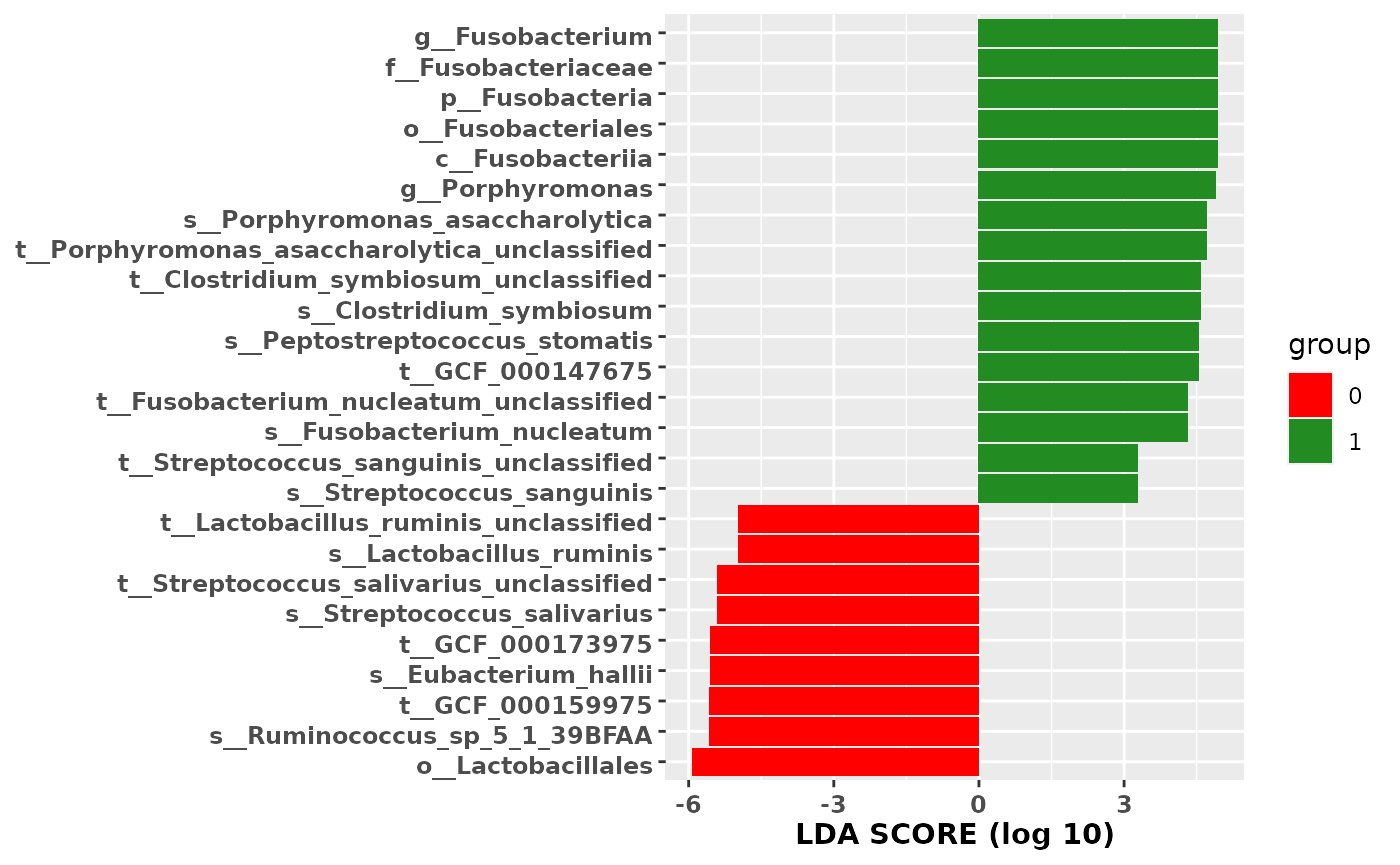
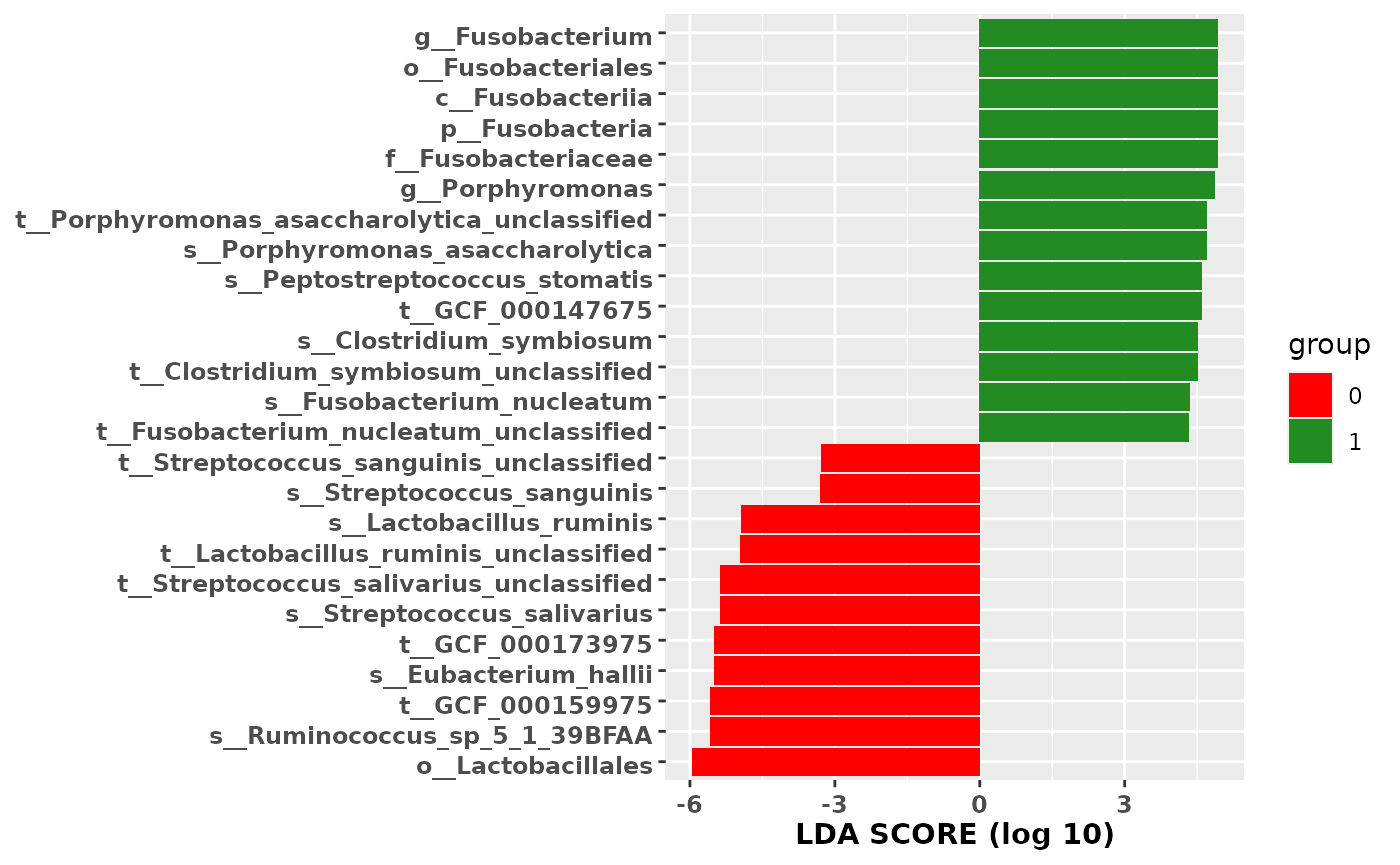
Deploying to gh-pages from  @ 87f49b9edf690383dff130e50912dddf48a71fe8 🚀

diff --git a/articles/lefser.html b/articles/lefser.html
@@ -128,58 +128,27 @@
 ##   senior      20  46</code></pre>
 <p>We can now use the <code>lefser</code> function. It provides results as a <code>data.frame</code> with the names of selected microorganisms and their effect size.</p>
 <div class="sourceCode" id="cb9"><pre class="downlit">
-<span class="va">res</span> <span class="op">&lt;-</span> <span class="fu"><a href="../reference/lefser.html">lefser</a></span><span class="op">(</span><span class="va">zeller14</span>, groupCol <span class="op">=</span> <span class="st">"study_condition"</span>, blockCol <span class="op">=</span> <span class="st">"age_category"</span><span class="op">)</span></pre></div>
-<pre><code>## Length of block: 157</code></pre>
-<pre><code>## Warning in .local(.Object, ...): The conditional covariance matrix has zero
-## diagonal elements
-
-## Warning in .local(.Object, ...): The conditional covariance matrix has zero
-## diagonal elements
-
-## Warning in .local(.Object, ...): The conditional covariance matrix has zero
-## diagonal elements
-
-## Warning in .local(.Object, ...): The conditional covariance matrix has zero
-## diagonal elements
-
-## Warning in .local(.Object, ...): The conditional covariance matrix has zero
-## diagonal elements
-
-## Warning in .local(.Object, ...): The conditional covariance matrix has zero
-## diagonal elements
-
-## Warning in .local(.Object, ...): The conditional covariance matrix has zero
-## diagonal elements
-
-## Warning in .local(.Object, ...): The conditional covariance matrix has zero
-## diagonal elements
-
-## Warning in .local(.Object, ...): The conditional covariance matrix has zero
-## diagonal elements
-
-## Warning in .local(.Object, ...): The conditional covariance matrix has zero
-## diagonal elements</code></pre>
-<div class="sourceCode" id="cb12"><pre class="downlit">
+<span class="va">res</span> <span class="op">&lt;-</span> <span class="fu"><a href="../reference/lefser.html">lefser</a></span><span class="op">(</span><span class="va">zeller14</span>, groupCol <span class="op">=</span> <span class="st">"study_condition"</span>, blockCol <span class="op">=</span> <span class="st">"age_category"</span><span class="op">)</span>
 <span class="fu"><a href="https://rdrr.io/r/utils/head.html">head</a></span><span class="op">(</span><span class="va">res</span><span class="op">)</span></pre></div>
 <pre><code>##                           Names    scores
-## 1            o__Lactobacillales -5.930165
-## 2 s__Ruminococcus_sp_5_1_39BFAA -5.559759
-## 3              t__GCF_000159975 -5.559759
-## 4         s__Eubacterium_hallii -5.547586
-## 5              t__GCF_000173975 -5.547586
-## 6   s__Streptococcus_salivarius -5.411354</code></pre>
+## 1            o__Lactobacillales -5.956588
+## 2 s__Ruminococcus_sp_5_1_39BFAA -5.583694
+## 3              t__GCF_000159975 -5.583694
+## 4         s__Eubacterium_hallii -5.499351
+## 5              t__GCF_000173975 -5.499351
+## 6   s__Streptococcus_salivarius -5.366510</code></pre>
 </div>
 <div id="visualizing-results-with-lefserplot" class="section level1">
 <h1 class="hasAnchor">
 <a href="#visualizing-results-with-lefserplot" class="anchor"></a>Visualizing results with <code>lefserPlot</code>
 </h1>
-<div class="sourceCode" id="cb14"><pre class="downlit">
+<div class="sourceCode" id="cb11"><pre class="downlit">
 <span class="fu"><a href="../reference/lefserPlot.html">lefserPlot</a></span><span class="op">(</span><span class="va">res</span><span class="op">)</span></pre></div>
 <p><img src="lefser_files/figure-html/unnamed-chunk-7-1.png" width="700" style="display: block; margin: auto;"></p>
 <div id="sessioninfo" class="section level2">
 <h2 class="hasAnchor">
 <a href="#sessioninfo" class="anchor"></a>sessionInfo</h2>
-<details><div class="sourceCode" id="cb15"><pre class="downlit">
+<details><div class="sourceCode" id="cb12"><pre class="downlit">
 <span class="fu"><a href="https://rdrr.io/r/utils/sessionInfo.html">sessionInfo</a></span><span class="op">(</span><span class="op">)</span></pre></div>
 <pre><code>## R version 4.0.3 Patched (2020-10-13 r79342)
 ## Platform: x86_64-pc-linux-gnu (64-bit)

diff --git a/reference/lefser.html b/reference/lefser.html
@@ -200,7 +200,7 @@ names of microorganisms and their LDA scores.</p>
     <span class='co'># assign '0' class to 'conrol' and '1' to 'CRC' (i.e., colorectal cancer)</span>
     <span class='va'>zeller14</span><span class='op'>$</span><span class='va'>GROUP</span> <span class='op'>&lt;-</span> <span class='fu'><a href='https://rdrr.io/r/base/ifelse.html'>ifelse</a></span><span class='op'>(</span><span class='va'>zeller14</span><span class='op'>$</span><span class='va'>study_condition</span> <span class='op'>==</span> <span class='st'>"control"</span>, <span class='fl'>0</span>, <span class='fl'>1</span><span class='op'>)</span>
     <span class='va'>results</span> <span class='op'>&lt;-</span> <span class='fu'>lefser</span><span class='op'>(</span><span class='va'>zeller14</span><span class='op'>)</span>
-</div><div class='output co'>#&gt; <span class='message'>Length of block: 0</span></div><div class='input'>    <span class='fu'><a href='https://rdrr.io/r/utils/head.html'>head</a></span><span class='op'>(</span><span class='va'>results</span><span class='op'>)</span>
+    <span class='fu'><a href='https://rdrr.io/r/utils/head.html'>head</a></span><span class='op'>(</span><span class='va'>results</span><span class='op'>)</span>
 </div><div class='output co'>#&gt;                  Names    scores
 #&gt; 1        p__Firmicutes -6.536708
 #&gt; 2        c__Clostridia -6.458054
@@ -217,7 +217,7 @@ names of microorganisms and their LDA scores.</p>
     <span class='co'># assign '0' class to 'adult' and '1' to 'senior'</span>
     <span class='va'>zeller14</span><span class='op'>$</span><span class='va'>BLOCK</span> <span class='op'>&lt;-</span> <span class='fu'><a href='https://rdrr.io/r/base/ifelse.html'>ifelse</a></span><span class='op'>(</span><span class='va'>zeller14</span><span class='op'>$</span><span class='va'>age_category</span> <span class='op'>==</span> <span class='st'>"adult"</span>, <span class='fl'>0</span>, <span class='fl'>1</span><span class='op'>)</span>
     <span class='va'>results</span> <span class='op'>&lt;-</span> <span class='fu'>lefser</span><span class='op'>(</span><span class='va'>zeller14</span><span class='op'>)</span>
-</div><div class='output co'>#&gt; <span class='message'>Length of block: 157</span></div><div class='output co'>#&gt; <span class='warning'>Warning: The conditional covariance matrix has zero diagonal elements</span></div><div class='output co'>#&gt; <span class='warning'>Warning: The conditional covariance matrix has zero diagonal elements</span></div><div class='output co'>#&gt; <span class='warning'>Warning: The conditional covariance matrix has zero diagonal elements</span></div><div class='output co'>#&gt; <span class='warning'>Warning: The conditional covariance matrix has zero diagonal elements</span></div><div class='output co'>#&gt; <span class='warning'>Warning: The conditional covariance matrix has zero diagonal elements</span></div><div class='output co'>#&gt; <span class='warning'>Warning: The conditional covariance matrix has zero diagonal elements</span></div><div class='output co'>#&gt; <span class='warning'>Warning: The conditional covariance matrix has zero diagonal elements</span></div><div class='output co'>#&gt; <span class='warning'>Warning: The conditional covariance matrix has zero diagonal elements</span></div><div class='output co'>#&gt; <span class='warning'>Warning: The conditional covariance matrix has zero diagonal elements</span></div><div class='output co'>#&gt; <span class='warning'>Warning: The conditional covariance matrix has zero diagonal elements</span></div><div class='input'>    <span class='fu'><a href='https://rdrr.io/r/utils/head.html'>head</a></span><span class='op'>(</span><span class='va'>results</span><span class='op'>)</span>
+    <span class='fu'><a href='https://rdrr.io/r/utils/head.html'>head</a></span><span class='op'>(</span><span class='va'>results</span><span class='op'>)</span>
 </div><div class='output co'>#&gt;                           Names    scores
 #&gt; 1            o__Lactobacillales -5.894245
 #&gt; 2 s__Ruminococcus_sp_5_1_39BFAA -5.594798

diff --git a/reference/lefserPlot.html b/reference/lefserPlot.html
@@ -166,7 +166,8 @@ Negative scores represent microorganisms with that are more abundant in class '0
 #&gt; lefser&gt;     # assign '0' class to 'conrol' and '1' to 'CRC' (i.e., colorectal cancer)
 #&gt; lefser&gt;     zeller14$GROUP &lt;- ifelse(zeller14$study_condition == "control", 0, 1)
 #&gt; 
-#&gt; lefser&gt;     results &lt;- lefser(zeller14)</div><div class='output co'>#&gt; <span class='message'>Length of block: 0</span></div><div class='output co'>#&gt; 
+#&gt; lefser&gt;     results &lt;- lefser(zeller14)
+#&gt; 
 #&gt; lefser&gt;     head(results)
 #&gt;               Names    scores
 #&gt; 1     p__Firmicutes -6.574292
@@ -188,7 +189,8 @@ Negative scores represent microorganisms with that are more abundant in class '0
 #&gt; lefser&gt;     # assign '0' class to 'adult' and '1' to 'senior'
 #&gt; lefser&gt;     zeller14$BLOCK &lt;- ifelse(zeller14$age_category == "adult", 0, 1)
 #&gt; 
-#&gt; lefser&gt;     results &lt;- lefser(zeller14)</div><div class='output co'>#&gt; <span class='message'>Length of block: 157</span></div><div class='output co'>#&gt; <span class='warning'>Warning: The conditional covariance matrix has zero diagonal elements</span></div><div class='output co'>#&gt; <span class='warning'>Warning: The conditional covariance matrix has zero diagonal elements</span></div><div class='output co'>#&gt; <span class='warning'>Warning: The conditional covariance matrix has zero diagonal elements</span></div><div class='output co'>#&gt; <span class='warning'>Warning: The conditional covariance matrix has zero diagonal elements</span></div><div class='output co'>#&gt; <span class='warning'>Warning: The conditional covariance matrix has zero diagonal elements</span></div><div class='output co'>#&gt; <span class='warning'>Warning: The conditional covariance matrix has zero diagonal elements</span></div><div class='output co'>#&gt; <span class='warning'>Warning: The conditional covariance matrix has zero diagonal elements</span></div><div class='output co'>#&gt; <span class='warning'>Warning: The conditional covariance matrix has zero diagonal elements</span></div><div class='output co'>#&gt; <span class='warning'>Warning: The conditional covariance matrix has zero diagonal elements</span></div><div class='output co'>#&gt; <span class='warning'>Warning: The conditional covariance matrix has zero diagonal elements</span></div><div class='output co'>#&gt; 
+#&gt; lefser&gt;     results &lt;- lefser(zeller14)
+#&gt; 
 #&gt; lefser&gt;     head(results)
 #&gt;                           Names    scores
 #&gt; 1            o__Lactobacillales -5.939724
